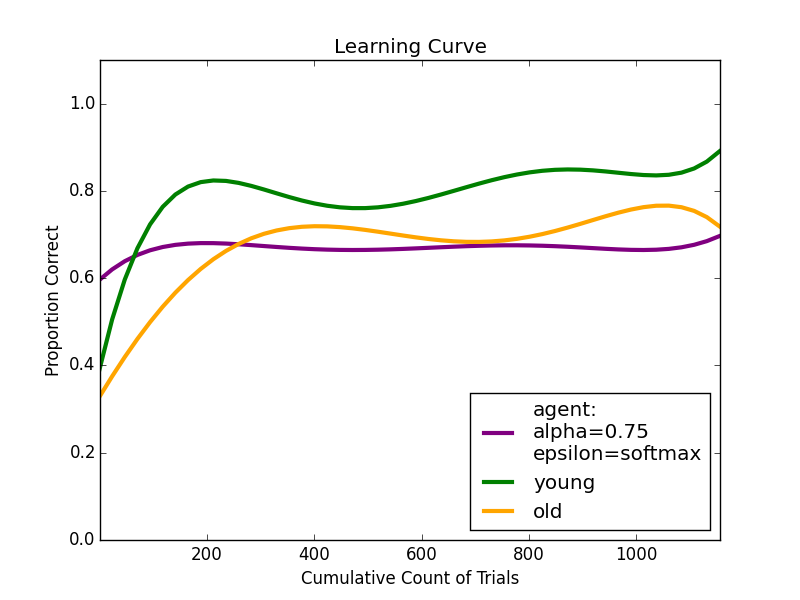
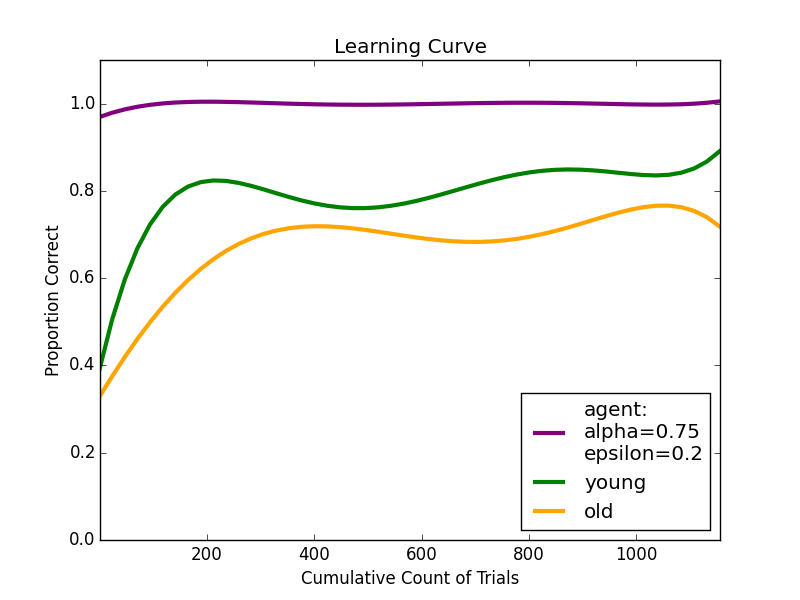
Adding Learning Function

diff --git a/agent.py b/agent.py
@@ -1,6 +1,7 @@
 import util
 import random
 import exploration as explore
+import learning
 
 
 class ratAgent():
@@ -93,15 +94,16 @@ class ratAgent():
 
         current = state.location
         next = nextState.location
+        alpha = self.alpha(agent,state)
 
         if state.previousState == None:
             self.QValues[(None,current,next)] = self.getQValue(state, next) + (
-                self.alpha * (reward + (self.discount * self.getValue(nextState)) - self.getQValue(state, next)))
+                alpha * (reward + (self.discount * self.getValue(nextState)) - self.getQValue(state, next)))
 
         else:
             previous = state.previousState.location
-            self.QValues[(previous,current,next)] = ((1-self.alpha)*self.getQValue(state,nextState.location))+ \
-                                                    self.alpha*(reward+self.discount*self.getValue(nextState))
+            self.QValues[(previous,current,next)] = ((1-alpha)*self.getQValue(state,nextState.location))+ \
+                                                    alpha*(reward+self.discount*self.getValue(nextState))
         mdp.state = state
 
     def observeTransition(self, environment,state, action, deltaReward):
@@ -137,7 +139,16 @@ class ratAgent():
         return not self.isInTraining()
 
     def explorationProb(self,agent,state):
-        if self.epsilon == 'greedy':
-            return explore.greedyE(agent,state)
         if self.epsilon == 'decreasing':
             return explore.decreasingE(agent,state)
+        if self.epsilon == 'glie':
+            return explore.GLIE(agent,state)
+        else: return explore.greedyE(agent,state)
+
+    def alpha(self,agent,state):
+        if self.alpha == 'linear':
+            return learning.decreasingLinear(agent,state)
+        if self.alpha == 'exponential':
+            return learning.decreasingExponential(agent,state)
+        else:
+            return self.alpha

diff --git a/exploration.py b/exploration.py
@@ -2,6 +2,10 @@ import math
 import util
 import random
 
+"""
+This is the possible exploration functions that can be implemented
+by your agent.
+"""
 
 def greedyE(agent,state):
     """
@@ -9,8 +13,7 @@ def greedyE(agent,state):
     which returns a fixed exploration probability
     that the user can specify or the default is 0.1
     """
-    return 0.1
-
+    return agent.epsilon
 
 def decreasingE(agent,state):
     """
@@ -26,6 +29,7 @@ def decreasingE(agent,state):
     b = 1-.0499
     return m*x+b
 
+
 def GLIE(agent,state):
     """
     Greedy in the limit of infinite exploration (GLIE):
@@ -33,6 +37,7 @@ def GLIE(agent,state):
     """
     time = float(agent.episodesSoFar)*100.0+float(state.trial)
     return (1.0/time)
+
 
 def softmax(agent,state):
     """

diff --git a/qLearning.py b/qLearning.py
@@ -30,8 +30,13 @@ def parseArgs(cl):
             args['e'] = 'softmax'
         if cl[n] == '-eGlie':
             args['e'] = 'glie'
-        if cl[n] == '-a': #alpha
+        if cl[n] == '-aConstant': #alpha
             args['a'] == float(cl[n+1])
+        if cl[n] == '-aLinear':
+            args['a'] = 'linear'
+        if cl[n] == '-aExponential':
+            args['a'] = 'exponential'
+
     return args
 
 
@@ -110,8 +115,6 @@ iterations = parameters['i']
 
 with open('decisions.txt','w') as fi:
     fi.write('0,')
-
-    #testing(rat,1,startState)
 
     if iterations > 0:
         print

diff --git a/learning.py b/learning.py
@@ -1,0 +1,17 @@
+"""
+Theses are the learning functions that your
+agent can utilize.
+"""
+
+def constant(agent,state):
+    return agent.alpha
+
+
+
+def decreasingLinear(agent,state):
+    return (1/(agent.episodesSoFar+state.trial))
+
+
+
+def decreasingExponential(agent,state):
+    return(0.5**(agent.episodesSoFar+state.trial))
